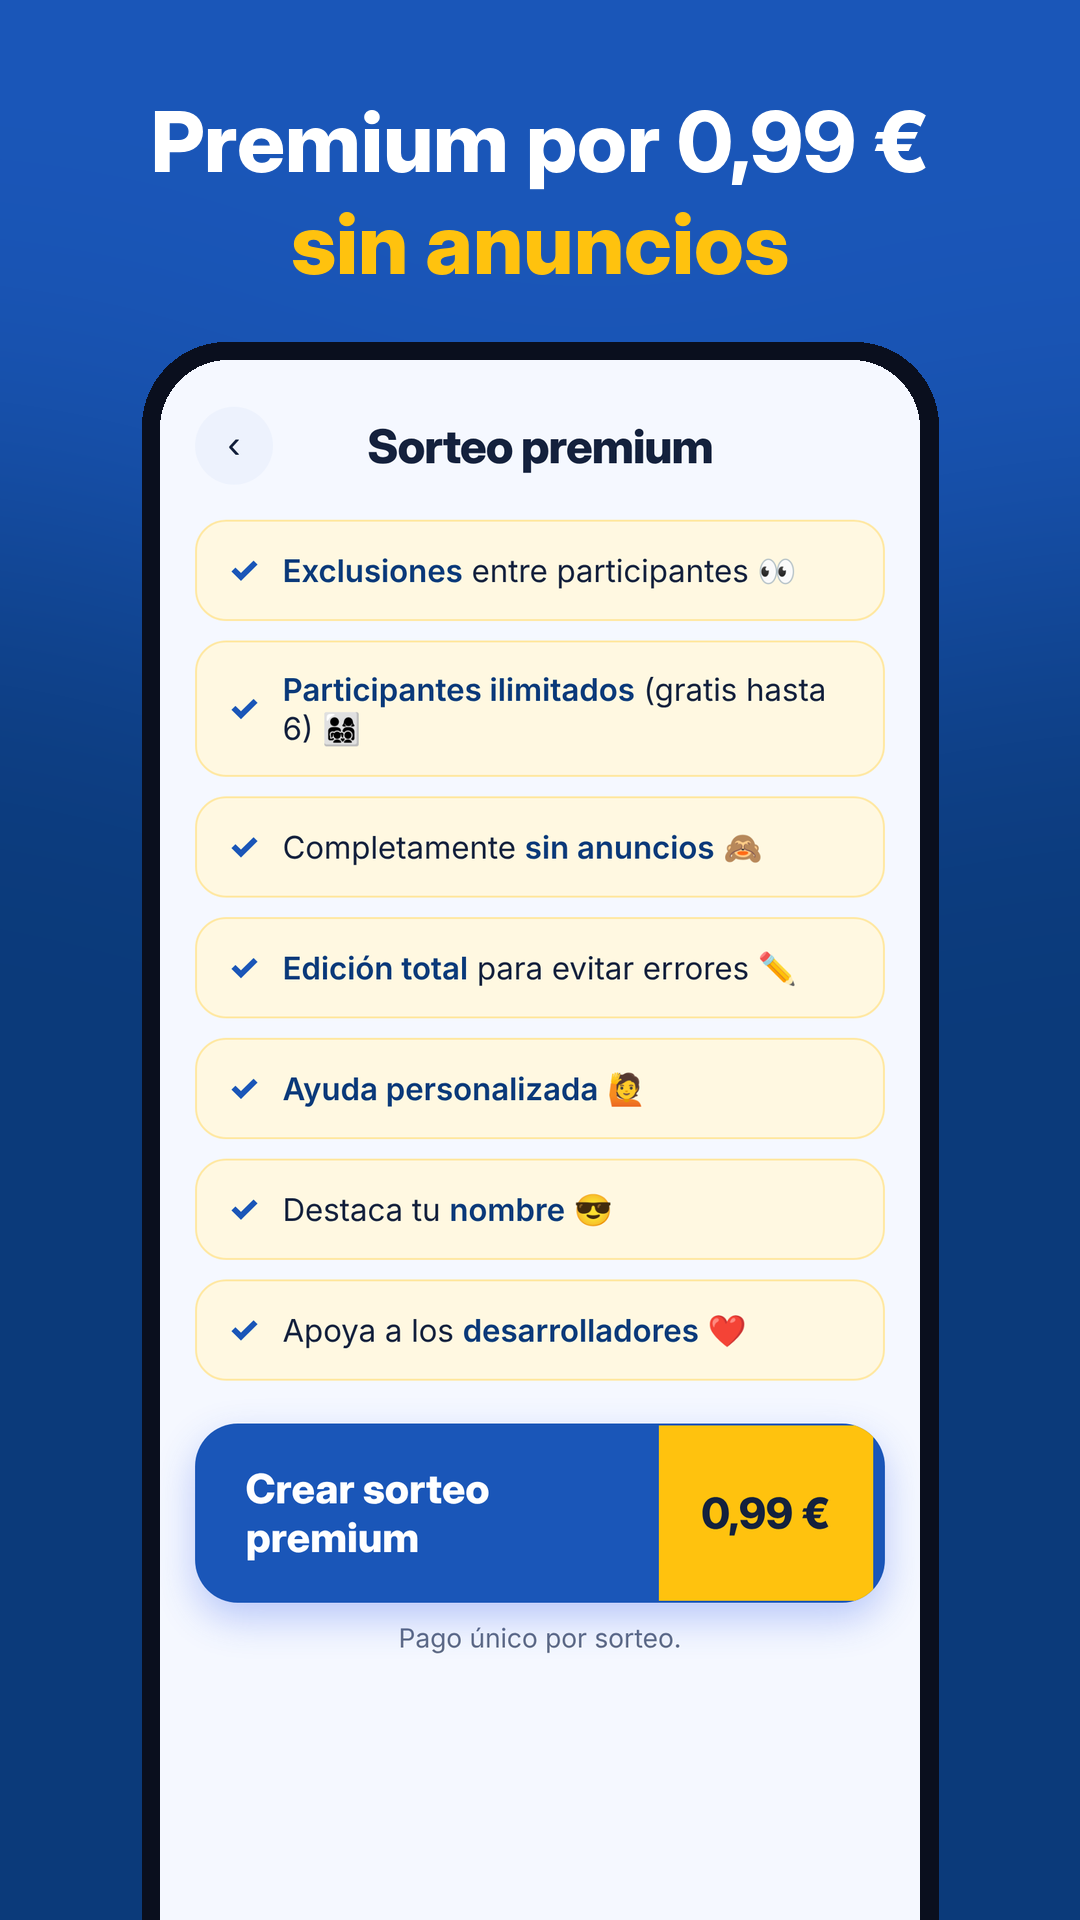
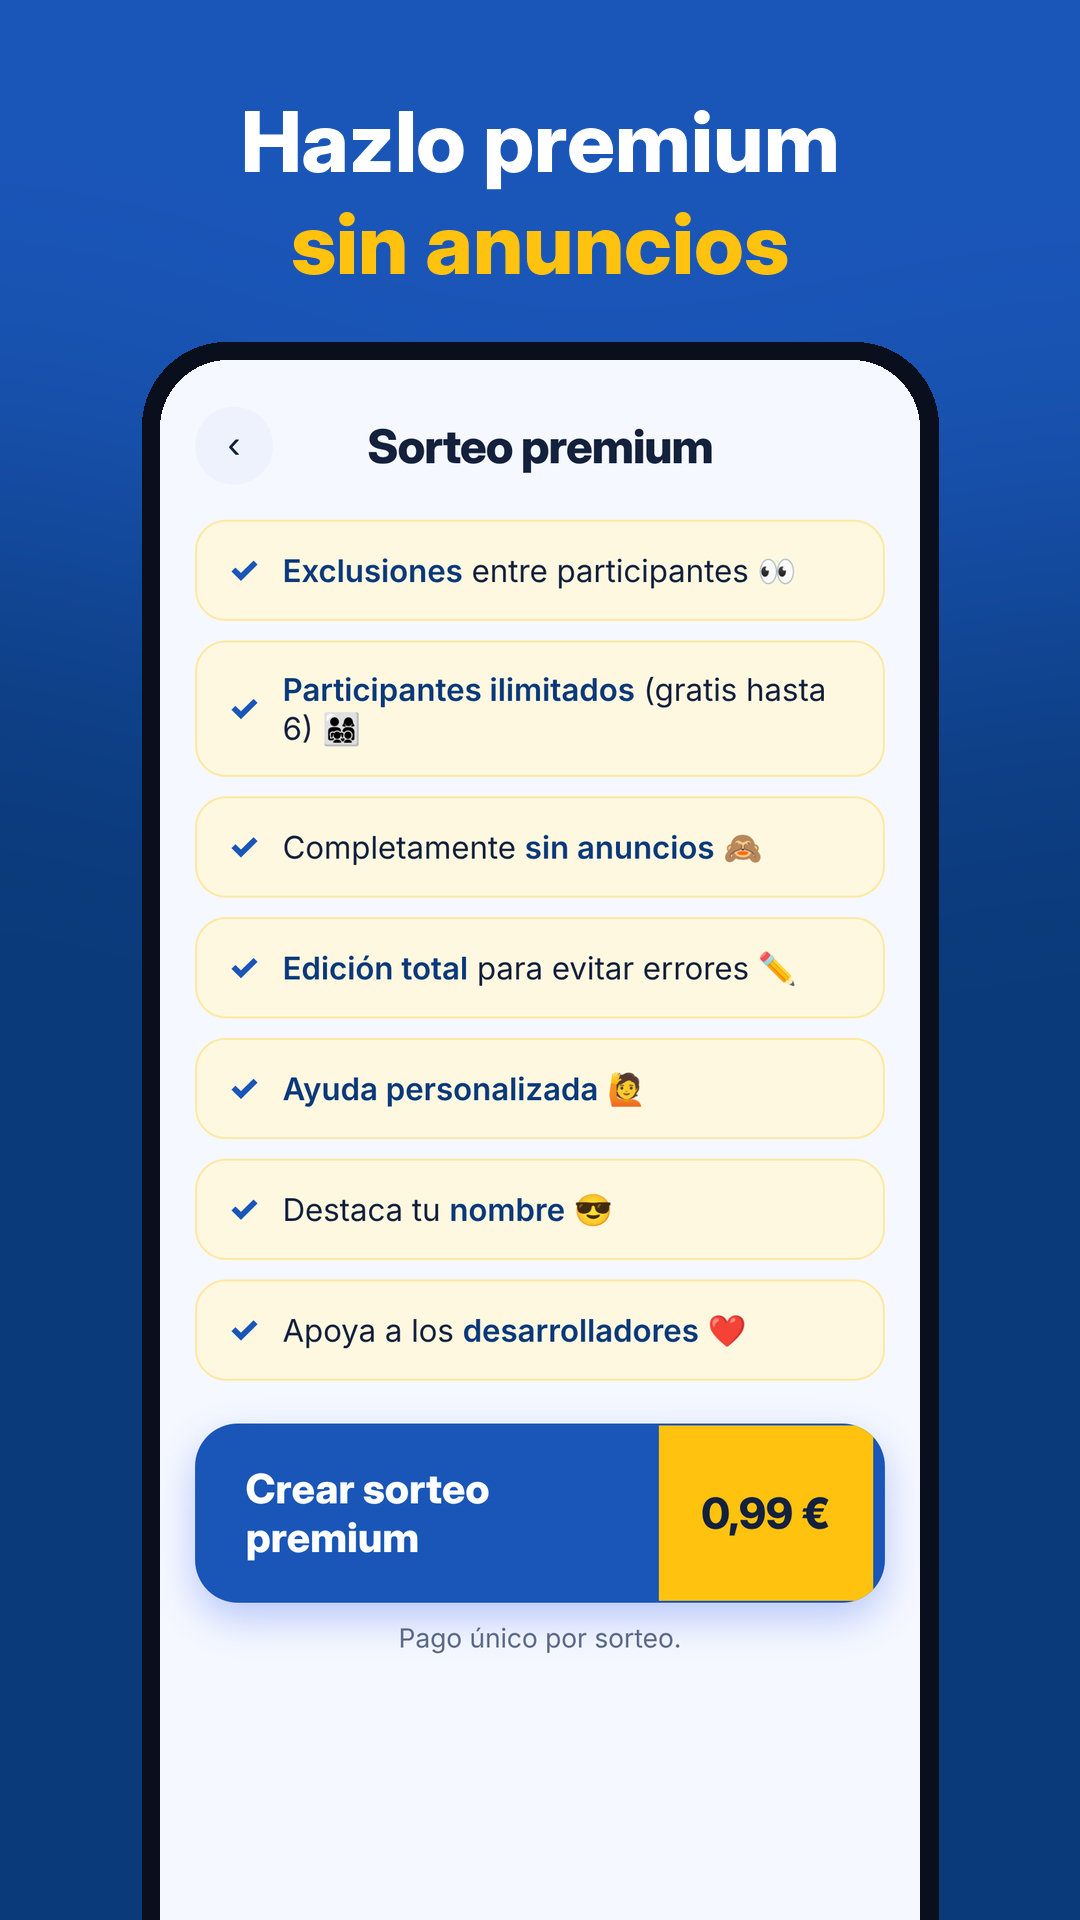
Tienda: ficha y capturas en 6 idiomas (iPhone 6,9", 6,5" y 6,3"; Google Play)
Claude-Session: https://claude.ai/code/session_01HQMgCKAHmHaXk5Mej7VV7E

Changed region(s): [[0.1222, 0.0312, 0.8556, 0.0938]]

diff --git a/tienda/capturas.py b/tienda/capturas.py
@@ -6,13 +6,24 @@ from PIL import Image, ImageDraw, ImageFont, ImageFilter
 
 U = 'http://127.0.0.1:8200/sorteo/'
 SALIDA = '/home/claude/secretoogift/tienda/app-store'
-NOMBRES = {'es': ['Ana', 'Luis', 'Marta', 'Pablo', 'Lucía', 'Carlos'], 'en': ['Emma', 'Jack', 'Olivia', 'Harry', 'Sophie', 'Leo']}
-GRUPO = {'es': 'Navidad en familia', 'en': 'Family Christmas'}
+NOMBRES = {'es': ['Ana', 'Luis', 'Marta', 'Pablo', 'Lucía', 'Carlos'], 'en': ['Emma', 'Jack', 'Olivia', 'Harry', 'Sophie', 'Leo'],
+           'pt': ['Inês', 'João', 'Maria', 'Tiago', 'Beatriz', 'Rui'], 'fr': ['Léa', 'Hugo', 'Chloé', 'Louis', 'Manon', 'Jules'],
+           'it': ['Giulia', 'Marco', 'Sofia', 'Luca', 'Chiara', 'Matteo'], 'de': ['Lena', 'Jonas', 'Mia', 'Paul', 'Emma', 'Ben']}
+GRUPO = {'es': 'Navidad en familia', 'en': 'Family Christmas', 'pt': 'Natal em família', 'fr': 'Noël en famille',
+         'it': 'Natale in famiglia', 'de': 'Weihnachten Familie'}
 TITULOS = {
  'es': [('El amigo invisible,', 'sin papelitos'), ('Apunta a todos', 'en un momento'), ('Envía los enlaces', 'y mira quién lo ha visto'),
-        ('Cada uno descubre', 'su amigo invisible'), ('Premium por 0,99 €', 'sin anuncios')],
+        ('Cada uno descubre', 'su amigo invisible'), ('Hazlo premium', 'sin anuncios')],
  'en': [('Secret Santa,', 'no paper slips'), ('Add everyone', 'in a moment'), ('Send the links', 'and see who has looked'),
-        ('Everyone finds out', 'who they’re buying for'), ('Premium for €0.99', 'no ads')]}
+        ('Everyone finds out', 'who they’re buying for'), ('Go premium', 'with no ads')],
+ 'pt': [('Amigo secreto,', 'sem papelinhos'), ('Adiciona todos', 'num instante'), ('Envia os links', 'e vê quem já viu'),
+        ('Cada um descobre', 'o seu amigo secreto'), ('Premium', 'sem anúncios')],
+ 'fr': [('Le Père Noël secret,', 'sans petits papiers'), ('Ajoutez tout le monde', 'en un instant'), ('Envoyez les liens', 'et voyez qui a regardé'),
+        ('Chacun découvre', 'son Père Noël secret'), ('Passez en premium', 'sans publicité')],
+ 'it': [('Babbo Natale segreto,', 'senza bigliettini'), ('Aggiungi tutti', 'in un attimo'), ('Invia i link', 'e guarda chi li ha visti'),
+        ('Ognuno scopre', 'a chi fare il regalo'), ('Passa a premium', 'senza pubblicità')],
+ 'de': [('Wichteln', 'ohne Zettelchen'), ('Alle eintragen', 'im Handumdrehen'), ('Links verschicken', 'und sehen, wer geschaut hat'),
+        ('Jeder erfährt,', 'wen er beschenkt'), ('Premium', 'ohne Werbung')]}
 FD = '/usr/share/fonts/opentype/inter/InterDisplay-ExtraBold.otf'
 CSS = ".gift{animation:none!important} .toast{display:none!important}"
 
@@ -55,7 +66,7 @@ with sync_playwright() as p:
     b = p.chromium.launch(executable_path='/usr/bin/google-chrome')
     for l, ns in NOMBRES.items():
         ppl = [{'id': f'p{i}', 'name': n, 'tok': f'tok{l}{i}abcdefgh', 'email': (n.lower() + '@mail.com') if i < 4 else ''} for i, n in enumerate(ns)]
-        g = {'id': f'demo{l}0000000000', 'key': 'k' * 32, 'name': GRUPO[l], 'budget': '20 €', 'date': '2026-12-24', 'people': ppl,
+        g = {'id': f'demo{l}0000000000', 'key': 'k' * 32, 'name': GRUPO[l], 'budget': ('$20' if l == 'en' else '20 €'), 'date': '2026-12-24', 'people': ppl,
              'exclusions': [], 'assignments': {f'p{i}': f'p{(i + 1) % len(ns)}' for i in range(len(ns))}, 'seen': {}, 'premium': True,
              'organizer': ns[0], 'synced': True, 'opened': {}}
         api('register', '', {'d': g['id'], 'k': g['key'], 'people': [{'t': x['tok'], 'n': x['name'], 'e': x['email']} for x in ppl]})

diff --git a/tienda/google-play.py b/tienda/google-play.py
@@ -6,11 +6,11 @@ R = '/home/claude/secretoogift'
 S = f'{R}/tienda/google-play'; os.makedirs(S, exist_ok=True)
 FD = '/usr/share/fonts/opentype/inter/InterDisplay-ExtraBold.otf'
 FR = '/usr/share/fonts/opentype/inter/Inter-SemiBold.otf'
-TIT = {
- 'es': [('El amigo invisible,', 'sin papelitos'), ('Apunta a todos', 'en un momento'), ('Envía los enlaces', 'y mira quién lo ha visto'),
-        ('Cada uno descubre', 'su amigo invisible'), ('Premium por 0,99 €', 'sin anuncios')],
- 'en': [('Secret Santa,', 'no paper slips'), ('Add everyone', 'in a moment'), ('Send the links', 'and see who has looked'),
-        ('Everyone finds out', 'who they’re buying for'), ('Premium for €0.99', 'no ads')]}
+# Mismos titulares que las capturas de la App Store
+_c = open(f'{R}/tienda/capturas.py').read()
+TIT = eval(_c[_c.index('TITULOS = {') + 10:_c.index("FD = ")].strip())
+LEMAS = {'es': 'El amigo invisible, sin papelitos', 'en': 'Secret Santa, no paper slips', 'pt': 'Amigo secreto, sem papelinhos',
+         'fr': 'Père Noël secret, sans papiers', 'it': 'Babbo Natale segreto, facile', 'de': 'Wichteln ohne Zettelchen'}
 
 def fondo(W, H):
     im = Image.new('RGB', (W, H), '#0b3a7a'); g = Image.new('RGB', (W, H), '#1a56b8'); m = Image.new('L', (W, H), 0)
@@ -39,7 +39,8 @@ for l, ts in TIT.items():
 Image.open(f'{R}/movil/assets/icon.png').resize((512, 512), Image.LANCZOS).save(f'{S}/icono-512.png')
 # Gráfico de funciones 1024x500 (es y en)
 logo = Image.open(f'{R}/movil/assets/splash.png').resize((300, 300), Image.LANCZOS)
-for l, (t1, t2) in {'es': ('Secretoogift', 'El amigo invisible, sin papelitos'), 'en': ('Secretoogift', 'Secret Santa, no paper slips')}.items():
+for l, t2 in LEMAS.items():
+    t1 = 'Secretoogift'
     im = fondo(1024, 500).convert('RGBA'); im.alpha_composite(logo, (70, 100)); d = ImageDraw.Draw(im)
     d.text((410, 150), t1, font=ImageFont.truetype(FD, 86), fill='#ffffff')
     f = ImageFont.truetype(FR, 38)
